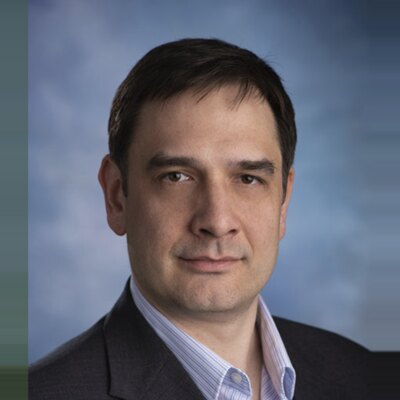
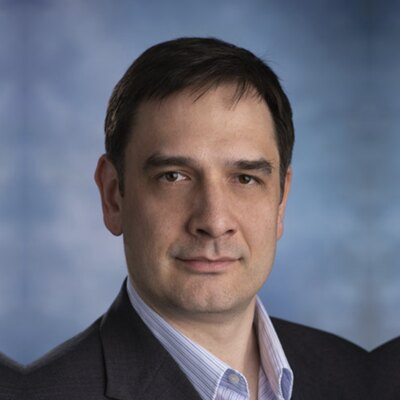
Wording cleanup

diff --git a/src/components/progress/TechnologySection.tsx b/src/components/progress/TechnologySection.tsx
@@ -7,8 +7,6 @@ import {
   FiCheckCircle,
   FiZap,
   FiMoon,
-  FiCpu,
-  FiClock,
   FiBox,
 } from 'react-icons/fi';
 import AnimateOnScroll from '../AnimateOnScroll';
@@ -17,25 +15,25 @@ const pillars = [
   {
     title: 'Non-Volatile & Rad-Hard',
     description:
-      'NML retains state without power and resists radiation — purpose-built for aerospace, orbital, and fielded hardware.',
+      'Keeps its state with the power off and resists radiation. Made for aerospace, orbit, and the field.',
     icon: <FiShield className="text-4xl text-emerald-400 mb-4 hover-icon" />,
   },
   {
-    title: 'Seamless Fab Integration',
+    title: 'Fits Existing Fabs',
     description:
-      'Designed to drop into existing processor technology, our architecture integrates as an ASIC into industry-standard foundry flows.',
+      'Integrates as an ASIC in standard foundry flows, alongside the processors you already use.',
     icon: <FiTool className="text-4xl text-emerald-400 mb-4 hover-icon" />,
   },
   {
     title: '>10x Lower Heat Output',
     description:
-      'At least an order of magnitude less heat than traditional silicon — vital for compact, isolated environments where cooling is difficult.',
+      'At least 10x less heat than silicon. That matters in tight, isolated spaces where cooling is hard.',
     icon: <FiThermometer className="text-4xl text-emerald-400 mb-4 hover-icon" />,
   },
   {
     title: 'Architecture Validated',
     description:
-      'TRL 4-5: The NML logic concept is demonstrated on real, fabricated devices, not just simulation.',
+      'TRL 4-5. NML logic works on real fabricated devices, not just in simulation.',
     icon: <FiCheckCircle className="text-4xl text-emerald-400 mb-4 hover-icon" />,
   },
 ];
@@ -43,42 +41,32 @@ const pillars = [
 const details = [
   {
     title: '800x Lower Power',
-    description: 'Proven 800x power reduction using NML versus comparable CMOS bits.',
+    description: 'Measured 800x power reduction versus comparable CMOS bits.',
     icon: <FiZap className="text-2xl text-emerald-400" />,
   },
   {
     title: 'Zero Standby Power',
-    description: 'Inherently non-volatile — eliminating standby leakage and enabling in-memory compute.',
+    description: 'Non-volatile by design: no standby leakage, and room for in-memory compute.',
     icon: <FiMoon className="text-2xl text-emerald-400" />,
   },
   {
     title: 'Ultra-Low Heat',
-    description: 'Order-of-magnitude lower heat generation for dense, cooling-constrained systems.',
+    description: 'About 10x less heat, for dense systems where cooling is the bottleneck.',
     icon: <FiThermometer className="text-2xl text-emerald-400" />,
   },
   {
     title: 'Radiation Resistance',
-    description: 'Inherent radiation resilience — a crucial feature for aerospace and orbital hardware.',
+    description: 'Naturally radiation-resistant. A must for aerospace and orbital hardware.',
     icon: <FiShield className="text-2xl text-emerald-400" />,
   },
   {
-    title: 'Hybrid NML + MTJ Architecture',
-    description: 'A novel hybrid design integrating our patented NML triangle with MTJs and active, clocked signal restoration.',
-    icon: <FiCpu className="text-2xl text-emerald-400" />,
-  },
-  {
-    title: 'Picosecond Switching',
-    description: 'Compatible with SOT, VCMA, and beyond — demonstrating high-speed switching in the picosecond regime.',
-    icon: <FiClock className="text-2xl text-emerald-400" />,
-  },
-  {
     title: 'Drop-In Replacement',
-    description: 'Integrates as an ASIC into larger chips used in the field — no redesign of the world required.',
+    description: 'Integrates as an ASIC inside the larger chips already in the field.',
     icon: <FiBox className="text-2xl text-emerald-400" />,
   },
   {
-    title: '2–3 Week PoC Builds',
-    description: 'Minimal-fab methods deliver proof-of-concept and bespoke chips in weeks, not months.',
+    title: '2-3 Week PoC Builds',
+    description: 'Minimal-fab methods turn around proof-of-concept and custom chips in weeks, not months.',
     icon: <FiTool className="text-2xl text-emerald-400" />,
   },
 ];
@@ -95,8 +83,8 @@ export default function TechnologySection() {
 
         <AnimateOnScroll animation="fade-in" delay="delay-200">
           <p className="max-w-3xl mx-auto text-center text-gray-300 mb-12">
-            Our patented <span className="highlight-text">Nanomagnetic Logic (NML) triangle</span> merges memory and logic
-            into a single device — non-volatile, radiation-hard, and built for existing fabs.
+            Our patented <span className="highlight-text">Nanomagnetic Logic (NML) triangle</span> combines memory and logic
+            in one device. It&apos;s non-volatile, radiation-hard, and made with existing fab technology.
           </p>
         </AnimateOnScroll>
 
@@ -112,7 +100,7 @@ export default function TechnologySection() {
                 className="w-full aspect-[3/2] object-cover"
               />
               <figcaption className="caption-text px-4 py-3 text-left">
-                Patented NML triangle — fabricated at 64 nm
+                Patented NML triangle, fabricated at 64 nm
               </figcaption>
             </figure>
           </AnimateOnScroll>
@@ -168,9 +156,9 @@ export default function TechnologySection() {
           </div>
         </AnimateOnScroll>
 
-        <div className="max-w-6xl mx-auto grid grid-cols-1 sm:grid-cols-2 lg:grid-cols-4 gap-6">
+        <div className="max-w-5xl mx-auto grid grid-cols-1 sm:grid-cols-2 lg:grid-cols-3 gap-6">
           {details.map((detail, index) => (
-            <AnimateOnScroll key={detail.title} animation="slide-up" delay={(['delay-100', 'delay-200', 'delay-300', 'delay-400'] as const)[index % 4]}>
+            <AnimateOnScroll key={detail.title} animation="slide-up" delay={(['delay-100', 'delay-200', 'delay-300'] as const)[index % 3]}>
               <div className="bg-gray-900/70 border border-emerald-400/10 rounded-lg p-5 hover-card h-full">
                 <div className="flex items-center gap-3 mb-3">
                   <span className="bg-emerald-400/10 border border-emerald-400/30 rounded-md p-2">{detail.icon}</span>

diff --git a/src/components/progress/TractionSection.tsx b/src/components/progress/TractionSection.tsx
@@ -7,28 +7,28 @@ const lois = [
   {
     logo: '/partners/starcloud.png',
     name: 'Starcloud',
-    description: 'Orbital processors — compute in space, where power and thermal margins are extreme.',
+    description: 'Orbital processors, where power and heat budgets are tight.',
     icon: <FiCpu className="text-emerald-400" />,
     dark: false,
   },
   {
     logo: '/partners/crow.png',
     name: 'Crow Industries',
-    description: 'Rugged autonomous ground systems — fielded hardware far from reliable power.',
+    description: 'Rugged autonomous ground systems & rovers that run far from reliable power.',
     icon: <FiTruck className="text-emerald-400" />,
     dark: true,
   },
   {
     logo: '/partners/Pheratech.png',
     name: 'Pheratech',
-    description: 'Low-powered autonomous robotics — fielded autonomy with months of battery life.',
+    description: 'Low-power autonomous robotics with months of battery life.',
     icon: <FiNavigation className="text-emerald-400" />,
     dark: false,
   },
   {
     logo: '/partners/Coda.png',
     name: 'Coda',
-    description: 'Dense compute infrastructure — cutting energy and cooling load at the rack.',
+    description: 'Dense compute infrastructure with less energy and cooling per rack.',
     icon: <FiServer className="text-emerald-400" />,
     dark: true,
   },
@@ -66,7 +66,7 @@ export default function TractionSection() {
 
         <AnimateOnScroll animation="fade-in" delay="delay-200">
           <p className="max-w-3xl mx-auto text-center text-gray-300 mb-12">
-            Key market LOIs within 3 months — and a paid pilot 2 months after that.
+            Key market LOIs in 3 months. A paid pilot 2 months later.
           </p>
         </AnimateOnScroll>
 
@@ -82,9 +82,9 @@ export default function TractionSection() {
                 <h3 className="font-heading text-xl md:text-2xl font-bold text-white">Paid Pilot with WaveWorks</h3>
               </div>
               <p className="text-gray-300">
-                An ultra-low-power architecture for remotely powered, non-volatile IoT devices — and our{' '}
-                <span className="highlight-text font-semibold">path to a repeatable product</span>. This partnership
-                is taking our technology from <span className="highlight-text font-semibold">TRL 4 to TRL 5</span>.
+                An ultra-low-power architecture for remotely powered, non-volatile IoT devices. This pilot is our {' '}
+                <span className="highlight-text font-semibold">path to a repeatable revenue product</span>, 
+                bringing our technology from <span className="highlight-text font-semibold">TRL 4 to TRL 5</span>.
               </p>
             </div>
           </div>
@@ -94,7 +94,7 @@ export default function TractionSection() {
           <div className="text-center mb-10">
             <h3 className="font-heading text-2xl md:text-3xl font-bold text-white">Key Market LOIs</h3>
             <p className="text-gray-400 mt-2">
-              Signed with teams deploying hardware exactly where CMOS struggles most —{' '}
+              Signed with teams building hardware where CMOS struggles most.{' '}
               <span className="highlight-text font-semibold">3+ more in discussion</span>.
             </p>
           </div>

diff --git a/src/components/progress/StatusSection.tsx b/src/components/progress/StatusSection.tsx
@@ -11,25 +11,25 @@ const milestones = [
     image: '/progress/wnf-suit.jpg',
     imageAlt: 'Researcher in full cleanroom attire',
     description:
-      'Fabrication through the Washington Nanofabrication Facility (WNF) with a full-time R&D team focused entirely on the NML core.',
+      'We fabricate at the Washington Nanofabrication Facility (WNF), with a full-time R&D team focused on the NML core.',
   },
   {
     step: '02',
-    title: 'V1 — 250 nm Prototype',
+    title: 'V1: 250 nm Prototype',
     elapsed: '+4 months',
     image: '/progress/v1-hex.jpg',
     imageAlt: '250 nanometer prototype chip with hexagonal die layout',
     description:
-      'Our first prototype demonstrated a 20x power reduction versus comparable CMOS — proof that NML logic works on real silicon.',
+      'Our first prototype cut power 20x versus comparable CMOS. Proof that NML logic works on real silicon.',
   },
   {
     step: '03',
-    title: 'V2 — 64 nm Prototype',
+    title: 'V2: 64 nm Prototype',
     elapsed: '+2 months',
     image: '/progress/v2-triangle.jpg',
     imageAlt: 'Scanning electron micrograph of the 64 nanometer NML triangle',
     description:
-      'An 8x scale-down delivered a proven 800x power reduction. The architecture is validated at TRL 4 on fabricated hardware.',
+      'Shrinking features 8x took us to an 800x power reduction, validated at TRL 4 on fabricated hardware.',
   },
 ];
 
@@ -87,10 +87,9 @@ export default function StatusSection() {
         <AnimateOnScroll animation="scale-up" delay="delay-400">
           <div className="max-w-4xl mx-auto mt-12 gradient-card p-8 rounded-lg">
             <p className="text-lg md:text-xl text-gray-300 text-center mb-6">
-              <span className="highlight-text font-semibold">Today:</span> we are fabricating{' '}
-              <span className="highlight-text font-semibold">64 nm devices</span> via cost-effective WNF
-              photolithography — an <span className="highlight-text font-semibold">8x scale improvement</span> over
-              initial expectations.
+              <span className="highlight-text font-semibold">Today:</span> we&apos;re fabricating{' '}
+              <span className="highlight-text font-semibold">64 nm devices</span> with low-cost WNF photolithography,
+              an <span className="highlight-text font-semibold">8x improvement</span> on our original target.
             </p>
             <ul className="grid grid-cols-1 md:grid-cols-3 gap-4">
               {now.map((item) => (

diff --git a/src/components/progress/EnergyImpactSection.tsx b/src/components/progress/EnergyImpactSection.tsx
@@ -2,7 +2,7 @@ import React from 'react';
 import AnimateOnScroll from '../AnimateOnScroll';
 
 const impactStats = [
-  { value: '1 GW', label: 'A hyperscale AI datacenter — 5,000 racks at 200 kW' },
+  { value: '1 GW', label: 'A hyperscale AI datacenter: 5,000 racks at 200 kW' },
   { value: '1.25 MW', label: 'The same compute on TriMagnetix™ NML' },
   { value: '≈833,000 → 1,040', label: 'Average US homes worth of power' },
 ];
@@ -19,8 +19,8 @@ export default function EnergyImpactSection() {
 
         <AnimateOnScroll animation="fade-in" delay="delay-200">
           <p className="max-w-3xl mx-auto text-center text-gray-300 mb-12">
-            Take a 1 GW AI datacenter like Meta&apos;s campus in Lebanon, Indiana. Run the same workload on{' '}
-            <span className="highlight-text">nanomagnetic logic</span> and its 5,000 racks collapse to just 6.25.
+            Take a 1 GW AI datacenter, like Meta&apos;s campus in Lebanon, Indiana. Run on{' '}
+            <span className="highlight-text">nanomagnetic logic</span>, and 5,000 racks shrink to 6.25.
           </p>
         </AnimateOnScroll>
 
@@ -35,7 +35,7 @@ export default function EnergyImpactSection() {
               loop
               playsInline
               preload="metadata"
-              aria-label="Animation: a grid of 5,000 datacenter racks drawing 1 GW collapses to 6.25 racks drawing 1.25 MW on TriMagnetix — 800 times less energy"
+              aria-label="Animation: a grid of 5,000 datacenter racks drawing 1 GW collapses to 6.25 racks drawing 1.25 MW on TriMagnetix, using 800 times less energy"
             />
             <figcaption className="caption-text px-6 py-3 text-left bg-gray-900/80">
               Each square is one 200 kW rack. Same datacenter, 800x less energy.

diff --git a/src/components/progress/ProblemSection.tsx b/src/components/progress/ProblemSection.tsx
@@ -6,19 +6,19 @@ const problemStats = [
     value: '9 months',
     title: 'AI chips keep scaling',
     description:
-      'AI chip performance is doubling every 9 months — but energy availability is not. Compute is increasingly limited by power, not speed.',
+      'AI chip performance doubles every 9 months. Power supply doesn\'t. Compute is now limited by energy, not speed.',
   },
   {
     value: '40%',
     title: 'Lost to standby leakage',
     description:
-      'In traditional CMOS embedded systems, standby leakage alone can consume upwards of 40% of the total power budget.',
+      'In CMOS embedded systems, standby leakage alone can eat up to 40% of the power budget.',
   },
   {
     value: 'Silicon',
     title: 'Fails where it matters most',
     description:
-      'For mission-critical edge compute and remote sensing, computational limits are defined by resilience, power availability, and thermal management — not raw speed.',
+      'At the edge and in orbit, the limits are resilience, power, and heat. Raw speed comes second.',
   },
 ];
 
@@ -67,8 +67,8 @@ export default function ProblemSection() {
         <AnimateOnScroll animation="fade-in" delay="delay-400">
           <div className="max-w-3xl mx-auto mt-12 text-center">
             <p className="pull-quote inline-block text-left">
-              Trimagnetix provides a post-CMOS core for mission-critical edge compute and remote sensing rigs by
-              leveraging Nanomagnetic Logic (NML).
+              TriMagnetix cuts compute energy by over 800x core for mission-critical edge compute and remote sensing, by leveraging
+              Nanomagnetic Logic (NML) over traditional electrical CMOS Logic.
             </p>
           </div>
         </AnimateOnScroll>

diff --git a/src/components/progress/TeamSection.tsx b/src/components/progress/TeamSection.tsx
@@ -6,7 +6,7 @@ const founders = [
   {
     name: 'Madison Hanberry',
     role: 'Co-Founder & CEO',
-    focus: 'Technical Development',
+    focus: 'Core Technical Development',
     photo: '/progress/team-madison.jpg',
     background: 'AWS · Georgia Tech · UW',
   },
@@ -19,26 +19,26 @@ const founders = [
   },
   {
     name: 'Pranav Jain',
-    role: 'Co-Founder & COO',
-    focus: 'Sales & Operations',
+    role: 'Co-Founder & CTO',
+    focus: 'Technology, Operations & Sales',
     photo: '/progress/team-pranav.jpg',
-    background: 'Microsoft · Penn State',
+    background: 'Anduril · Microsoft · D.A.T.A. Lab',
   },
   {
     name: 'Aspen White',
     role: 'Co-Founder & CBO',
     focus: 'Administration',
     photo: '/progress/team-aspen.jpg',
-    background: 'T-Mobile',
+    background: 'AerwareAI · Founder Institute · T-Mobile',
   },
 ];
 
 const advisors = [
   {
     name: 'Alexander Kozhanov',
-    focus: 'Leading Spintronics Professor',
+    focus: 'Leading Spintronics/Nanomagnetics Researcher',
     photo: '/progress/advisor-kozhanov.jpg',
-    background: 'Duke · Caltech',
+    background: 'Duke · UC Berkeley',
   },
   {
     name: 'Clayton Barnard',
@@ -50,7 +50,7 @@ const advisors = [
     name: 'Hans Fangohr',
     focus: 'Pioneer of Computational Micromagnetics',
     photo: '/progress/advisor-fangohr.jpg',
-    background: 'UC Berkeley',
+    background: 'Max Planck Institute',
   },
 ];
 

diff --git a/src/components/progress/ProgressHero.tsx b/src/components/progress/ProgressHero.tsx
@@ -40,10 +40,10 @@ export default function ProgressHero() {
 
           <AnimateOnScroll animation="scroll-animate" delay="delay-2">
             <p className="mt-6 text-lg sm:text-xl text-gray-300 max-w-3xl mx-auto">
-              TriMagnetix™ is developing a new class of <span className="highlight-text">nanomagnetic processors</span>. Our
-              custom Nanomagnetic Logic (NML) architecture delivers proven 800x lower power use,{' '}
-              <span className="highlight-text">non-volatile</span> operation with zero standby loss,{' '}
-              <span className="highlight-text">radiation resistance</span>, and ultra-low heat output — ideal for remote sensing, dense edge computing, and AI / data center workloads.
+              TriMagnetix™ builds <span className="highlight-text">nanomagnetic processors</span>. Our Nanomagnetic Logic (NML)
+              uses 800x less power than CMOS, stays <span className="highlight-text">non-volatile</span> with zero standby
+              loss, and has built-in <span className="highlight-text">radiation resistance</span>. It&apos;s made
+              for remote sensing, dense edge computing, and space-based compute.
             </p>
           </AnimateOnScroll>
 

diff --git a/src/components/ContactSection.tsx b/src/components/ContactSection.tsx
@@ -22,8 +22,8 @@ export default function ContactSection({ pattern = 'magnetic-dots' }: ContactSec
         <AnimateOnScroll animation="scale-up" delay="delay-300">
           <div className="max-w-2xl mx-auto text-center gradient-card p-8 md:p-12 rounded-lg hover-card">
             <p className="mb-8 text-gray-300">
-              Ready to bring 800x lower power, zero standby loss, and radiation resilience to your product? Get in touch
-              with our team to discuss your use case or schedule a meeting.
+              Want 800x lower power, zero standby loss, and radiation resistance in your product? Tell us about your use
+              case or book a meeting.
             </p>
 
             <div className="flex flex-col sm:flex-row gap-4 justify-center">

diff --git a/src/components/HeroSection.tsx b/src/components/HeroSection.tsx
@@ -17,8 +17,8 @@ export default function HeroSection() {
           
           <AnimateOnScroll animation="scroll-animate" delay="delay-1">
             <p className="mt-6 text-lg sm:text-xl text-gray-300 max-w-3xl mx-auto">
-              Revolutionary nanomagnetic technology that merges memory and logic into a single, 
-              ultra-efficient processor—shattering the performance and power barriers of traditional computing.
+              Nanomagnetic technology that combines memory and logic in one ultra-efficient processor, breaking the
+              power limits of traditional computing.
             </p>
           </AnimateOnScroll>
           

diff --git a/src/components/ProductsSection.tsx b/src/components/ProductsSection.tsx
@@ -12,7 +12,7 @@ export default function ProductsSection() {
     },
     {
       title: "Efficiency without Compromise",
-      description: "Engineered to operate with nanosecond pulses, our architecture drastically reduces energy use—ideal for battery-powered devices, IoT, and remote systems.",
+      description: "Runs on nanosecond pulses and cuts energy use dramatically. Ideal for battery-powered devices, IoT, and remote systems.",
       icon: <FiBattery className="text-4xl text-emerald-400 mb-4 hover-icon" />
     },
     {

diff --git a/src/app/progress/page.tsx b/src/app/progress/page.tsx
@@ -20,7 +20,7 @@ export const metadata: Metadata = {
   openGraph: {
     title: "TriMagnetix™ - Technical & Business Progress",
     description:
-      "Nanomagnetic processors with 800x lower power, zero standby loss, and ultra-low heat — now in fabrication at 64 nm.",
+      "Nanomagnetic processors with 800x lower power, zero standby loss, and ultra-low heat. Now in fabrication at 64 nm.",
     url: "https://trimagnetix.com/progress",
     siteName: "TriMagnetix™",
     locale: "en_US",
